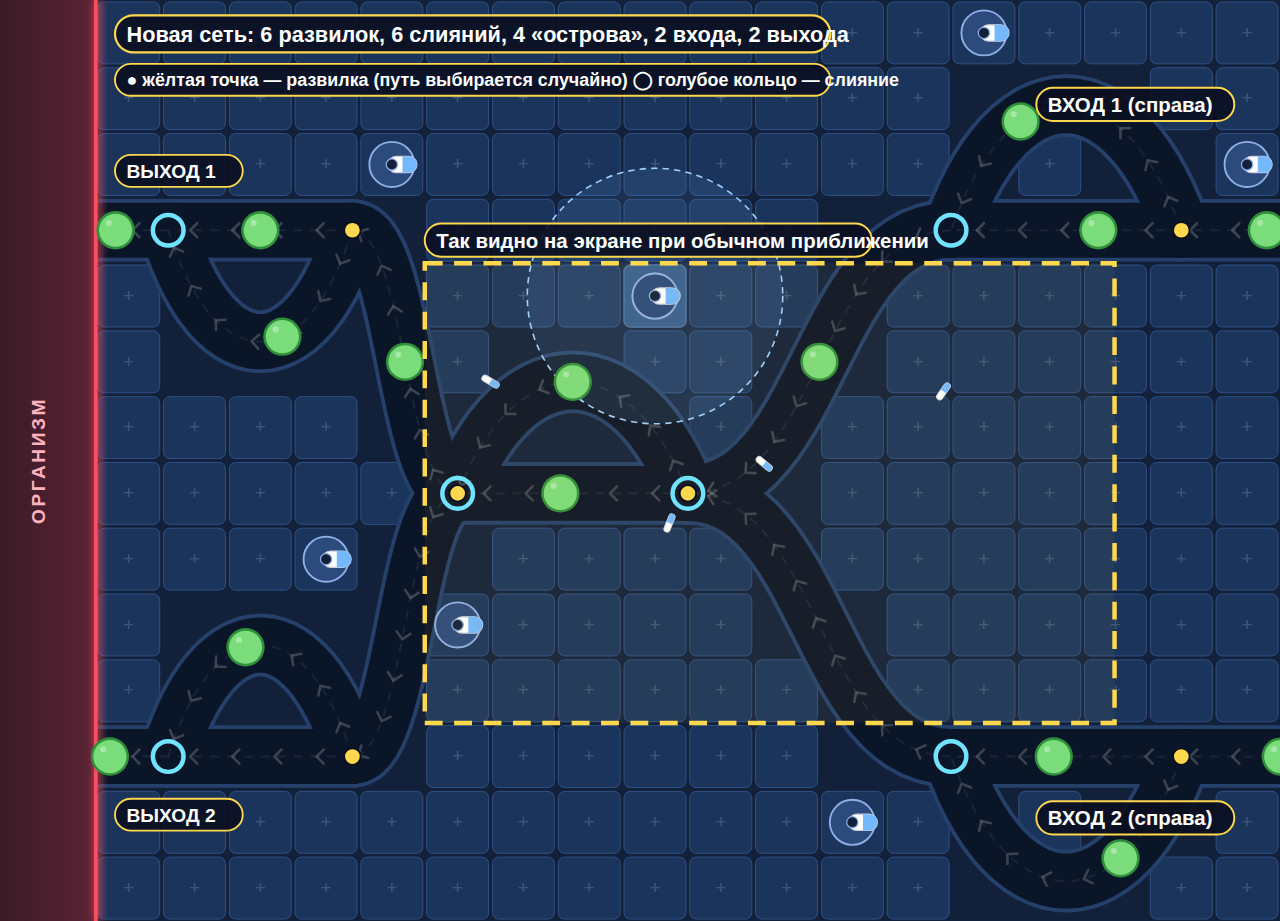
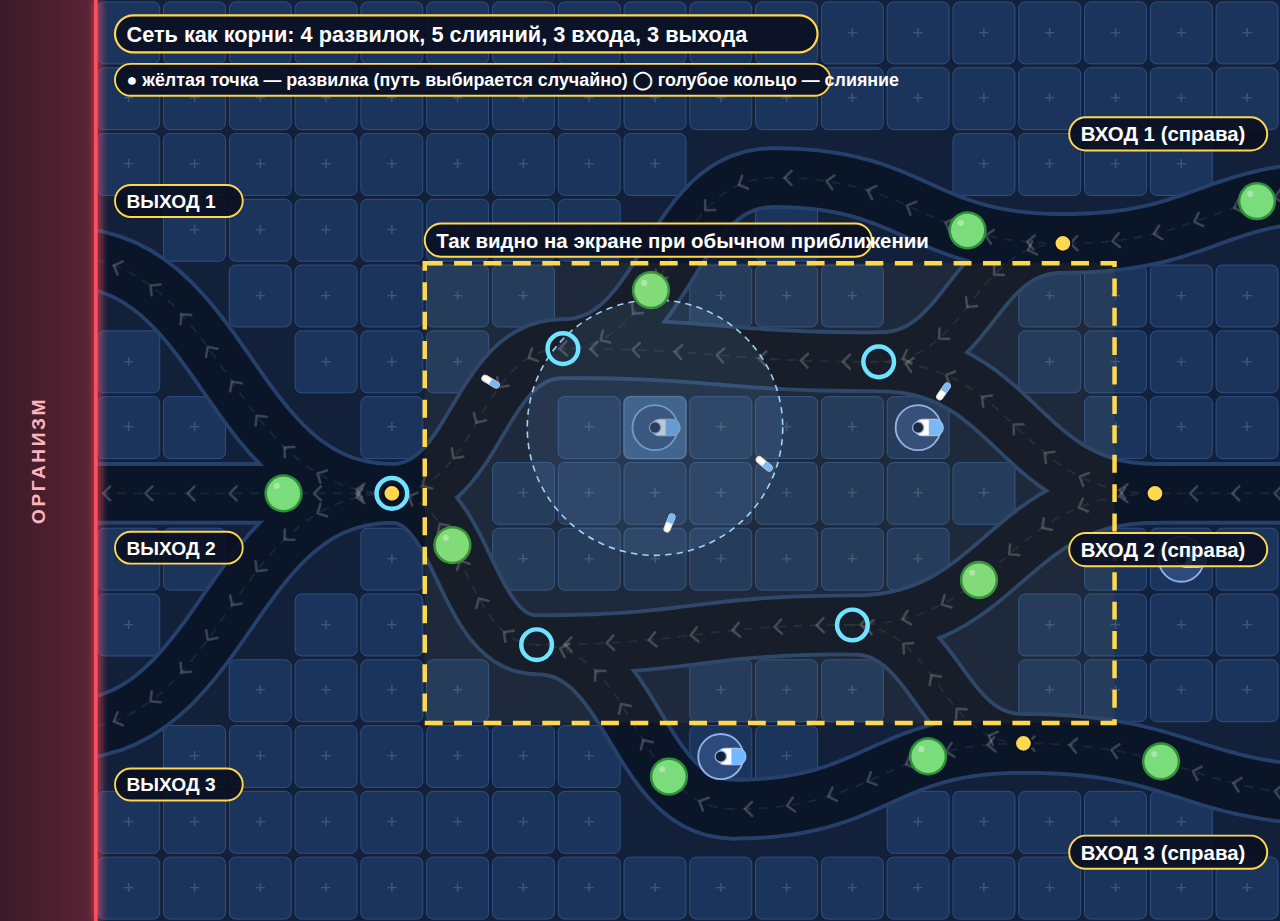
Башни ставятся при любом приближении; макет сети дорожек «корневая система»
- по указанию владельца убрано ограничение на постановку башен при отдалении: параметр camera.placeMinZoom, проверка в GameScene
  и подсказка hintZoomIn удалены; документы обновлены (риск промаха пальцем при сильном отдалении принят);
- макет сети дорожек этапа 2 переделан (docs/mockups/stage-2-network.html, qa/screenshots/td-2-mockup/): по замечанию владельца
  сеть как корни — 3 входа, 3 выхода, 4 развилки, 5 слияний, плавные кривые, неправильная форма; прежние варианты отвергнуты.
Проверки qa/ под снятое ограничение обновляются отдельным шагом (агент). Игровая логика этапа 2 не начата.

Claude-Session: https://claude.ai/code/session_01HDHRTsyNWtREdGjwqjqgc6

diff --git a/docs/mockups/stage-2-network.html b/docs/mockups/stage-2-network.html
@@ -45,21 +45,20 @@ const CAM = { x: 665, y: 412, zoom: 1 };
 // Ребро: ['из', 'в'] — прямая или плавная S-кривая (если ряды разные); ['из', 'в', dy] — дуга в сторону на dy рядов («остров» между дугой и прямой).
 // Развилка — узел, из которого выходит несколько рёбер (путь выбирается случайно); слияние — узел, в который входит несколько.
 const NODES = {
-  E1: [18.6, 3], E2: [18.6, 11],
-  F1: [16, 3], J1: [12.5, 3],          // остров на верхнем входе
-  F2: [16, 11], J2: [12.5, 11],        // остров на нижнем входе
-  M: [8.5, 7], N: [5, 7],              // слияние двух входов и остров на стволе
-  U: [3.4, 3], V: [0.6, 3],            // остров перед верхним выходом
-  L: [3.4, 11], W: [0.6, 11],          // остров перед нижним выходом
-  X1: [-1, 3], X2: [-1, 11],
+  T1: [18.6, 2.4], T2: [18.6, 7.0], T3: [18.6, 11.6],     // три «кончика» корня справа — входы
+  K1: [14.2, 3.2], K2: [15.6, 7.0], K3: [13.6, 10.8],
+  Mu: [11.4, 5.0], Ml: [11.0, 9.0],
+  Ru: [9.8, 2.2], Rl: [9.2, 11.8],
+  Nu: [6.6, 4.8], Nl: [6.2, 9.3],
+  Z: [4.0, 7.0],                                            // «ствол» у организма
+  X1: [-1, 3.4], X2: [-1, 7.0], X3: [-1, 10.6],           // три корешка к организму — выходы
 };
 const EDGES = [
-  ['E1', 'F1'], ['F1', 'J1'], ['F1', 'J1', -1.9], ['J1', 'M'],
-  ['E2', 'F2'], ['F2', 'J2'], ['F2', 'J2', 1.9], ['J2', 'M'],
-  ['M', 'N'], ['M', 'N', -1.7],
-  ['N', 'U'], ['N', 'L'],
-  ['U', 'V'], ['U', 'V', 1.7], ['V', 'X1'],
-  ['L', 'W'], ['L', 'W', -1.7], ['W', 'X2'],
+  ['T1', 'K1'], ['T2', 'K2'], ['T3', 'K3'],
+  ['K1', 'Mu'], ['K1', 'Ru'], ['K2', 'Mu'], ['K2', 'Ml'], ['K3', 'Ml'], ['K3', 'Rl'],
+  ['Mu', 'Nu'], ['Ru', 'Nu'], ['Ml', 'Nl'], ['Rl', 'Nl'],
+  ['Nu', 'Z'], ['Nl', 'Z'],
+  ['Z', 'X1'], ['Z', 'X2'], ['Z', 'X3'],
 ];
 const out = {}, inn = {};
 for (const [a, b] of EDGES) { (out[a] = out[a] || []).push(b); (inn[b] = inn[b] || []).push(a); }
@@ -108,9 +107,7 @@ for (let c = 0; c < L.cols; c++) for (let r = 0; r < L.rows; r++) if (!pathTiles
 NET.towers = free.filter(([c, r]) => (c * 5 + r * 3) % 13 === 0).slice(0, 12);
 NET.ghost = free.filter(([c, r]) => c >= 8 && c <= 11 && r >= 4 && r <= 6).sort((p, q) => tileDist[key(...q)] - tileDist[key(...p)])[0] || free[0];
 // бактерии: точки на рёбрах (доля пути ребра)
-[[0, .5], [1, .35], [2, .7], [3, .5], [4, .4], [5, .6], [6, .3], [8, .6], [9, .5], [10, .5], [12, .5], [13, .4], [14, .5], [16, .6], [17, .6]].forEach(([e, f]) => {
-  const pts = EDGE_PTS[e]; NET.bacteria.push(pts[Math.floor(f * (pts.length - 1))]);
-});
+EDGE_PTS.forEach((pts, i) => { if (i % 2 === 0 || i === 4) NET.bacteria.push(pts[Math.floor((0.3 + 0.17 * (i % 4)) * (pts.length - 1))]); });
 const towerSet = new Set(NET.towers.map(([c, r]) => key(c, r)));
 const ghostKey = key(...NET.ghost);
 
@@ -229,7 +226,7 @@ const root = document.getElementById('root');
 if (view === 'overview') {
   const k = 1280 / L.worldW, H = Math.round(L.worldH * k);
   const fw = L.viewW / CAM.zoom, fh = L.screenH / CAM.zoom;
-  const [e1x, e1y] = tc(L.cols - 1, 2), [e2x, e2y] = tc(L.cols - 1, 11);
+  
   const dots = [];
   for (const name of Object.keys(NODES)) {
     const [cx, cy] = tc(...NODES[name]), isFork = (out[name] || []).length > 1, isMerge = (inn[name] || []).length > 1;
@@ -237,16 +234,15 @@ if (view === 'overview') {
     if (isFork) dots.push(`<circle cx="${cx}" cy="${cy}" r="13" fill="#ffd84d" stroke="#0b1020" stroke-width="3"/>`);
   }
   const nForks = Object.keys(NODES).filter(n => (out[n] || []).length > 1).length, nMerges = Object.keys(NODES).filter(n => (inn[n] || []).length > 1).length;
+  const ent = ['T1', 'T2', 'T3'].map((n, i) => tag(L.worldW - 330, tc(...NODES[n])[1] + (i === 0 ? -115 : 62), '', `ВХОД ${i + 1} (справа)`, 310, null, 32, 52));
+  const ext = ['X1', 'X2', 'X3'].map((n, i) => tag(180, tc(...NODES[n])[1] + (i === 0 ? -112 : 60), '', `ВЫХОД ${i + 1}`, 200, null, 30, 50));
   const over = [
     `<rect x="${CAM.x}" y="${CAM.y}" width="${fw}" height="${fh}" fill="#ffd84d" fill-opacity=".05" stroke="#ffd84d" stroke-width="7" stroke-dasharray="28 18"/>`,
     ...dots,
     tag(CAM.x, CAM.y - 62, '', 'Так видно на экране при обычном приближении', 700, null, 32, 52),
-    tag(180, 24, '', `Новая сеть: ${nForks} развилок, ${nMerges} слияний, 4 «острова», 2 входа, 2 выхода`, 1120, null, 34, 58),
+    tag(180, 24, '', `Сеть как корни: ${nForks} развилок, ${nMerges} слияний, 3 входа, 3 выхода`, 1100, null, 34, 58),
     tag(180, 100, '', '● жёлтая точка — развилка (путь выбирается случайно)   ◯ голубое кольцо — слияние', 1120, null, 28, 50),
-    tag(e1x - 330, e1y - 120, '', 'ВХОД 1 (справа)', 310, null, 32, 52),
-    tag(e2x - 330, e2y + 70, '', 'ВХОД 2 (справа)', 310, null, 32, 52),
-    tag(180, tc(0, 3)[1] - 118, '', 'ВЫХОД 1', 200, null, 30, 50),
-    tag(180, tc(0, 11)[1] + 66, '', 'ВЫХОД 2', 200, null, 30, 50),
+    ...ent, ...ext,
   ];
   root.innerHTML = `<svg xmlns="http://www.w3.org/2000/svg" width="1280" height="${H}" viewBox="0 0 ${L.worldW} ${L.worldH}">${worldSvg()}${over.join('')}</svg>`;
 } else {

diff --git a/src/config.ts b/src/config.ts
@@ -58,9 +58,6 @@ export const CONFIG = {
     /** Чувствительность колеса мыши: во сколько раз меняется масштаб за один «щелчок» (~100 единиц колеса) —
      *  это e в степени этого числа × 100. 0.0015 → примерно ×1,16 за щелчок. */
     wheelSpeed: 0.0015,
-    /** Башни можно ставить, только если приближение не меньше этого числа: при сильном отдалении клетка
-     *  мельче пальца. 0.8 → клетка на телефоне ≈45 px. 0 — ставить можно при любом масштабе. */
-    placeMinZoom: 0.8,
     /** Касание считается тапом (а не началом сдвига карты), если палец сместился не больше, пикселей экрана игры.
      *  22 на телефоне 844×390 ≈ 12 px на самом стекле: обычное дрожание пальца при тапе (5–10 px) — ещё тап. */
     tapMaxMovePx: 22,

diff --git a/src/i18n.ts b/src/i18n.ts
@@ -19,7 +19,6 @@ const ru = {
   towerCapsule: 'Капсула',
   locked: 'закрыто',
   hintPlace: 'Выберите башню справа и тапните по свободной клетке',
-  hintZoomIn: 'Приблизьте карту, чтобы ставить башни',
   hintNoCoins: 'Не хватает монет',
   hintCantBuild: 'Здесь нельзя ставить башню',
   victory: 'Победа!',
@@ -45,7 +44,6 @@ const en: Record<TextKey, string> = {
   towerCapsule: 'Capsule',
   locked: 'locked',
   hintPlace: 'Pick a tower on the right, then tap an empty cell',
-  hintZoomIn: 'Zoom in to place towers',
   hintNoCoins: 'Not enough coins',
   hintCantBuild: "You can't build here",
   victory: 'Victory!',

diff --git a/src/scenes/GameScene.ts b/src/scenes/GameScene.ts
@@ -312,10 +312,6 @@ export class GameScene extends Phaser.Scene {
   private tryPlace(id: TowerId, col: number, row: number): void {
     const cfg = CONFIG.towers[id];
     const key = cellKey(col, row);
-    if (this.rig.zoom < CONFIG.camera.placeMinZoom) {
-      this.deny(t('hintZoomIn'));
-      return;
-    }
     if (PATH_TILES.has(key) || this.occupied.has(key)) {
       this.deny(t('hintCantBuild'));
       return;

diff --git a/docs/td-rules.md b/docs/td-rules.md
@@ -19,8 +19,8 @@
 - **[допущение]** Правая панель (волна, монеты, жизни, кнопки башен) всегда на экране и не двигается с картой. **Жизни (сердца)
   переехали в панель**, потому что организм и красная линия при сдвиге уходят за край экрана. Подсказка у края экрана
   «◀ Организм» — предложение агента. Карту целиком видно при отдалении (макет `map-overview.png`).
-- **[допущение]** На телефоне (844×390) клетка при обычном приближении ≈56 px; при отдалении она мельче пальца (44 px), поэтому
-  башни, вероятно, можно ставить только при приближении не меньше ≈0,8 — не решено.
+- **[владелец] Башни можно ставить при любом приближении** (ограничения «только при приближении ≥ 0,8» больше нет). Риск: при сильном
+  отдалении клетка на телефоне мельче пальца (44 px): при минимальном приближении ≈27 px — легко промахнуться. Решение владельца.
 - Клетка не меньше ≈ 100 px: на телефоне в горизонтальном положении (например, 844×390) поле уменьшается примерно вдвое,
   и клетку меньше 50 px пальцем не выбрать.
 - По вертикали места мало (720 px), поэтому панель выбора башен, счёт, монеты и жизни, скорее всего, встанут сбоку или
@@ -46,8 +46,10 @@
 ## Бактерии
 - **[владелец]** Остаются все пять типов, подогнанные под дорожки. Форма, цвет и HP — как в старой игре. Ответы владельца для этапа 2:
   - **Развилки:** «больше развилок и слияний на маршруте; выбор пути — в случайном порядке». Каждая бактерия на каждой развилке
-    выбирает выход случайно (поровну), независимо от других. Сеть дорожек v2 (макет `docs/mockups/stage-2-network.html`): 6 развилок,
-    6 слияний, 4 «острова» (дуга и прямая расходятся и снова сходятся), 2 входа, 2 выхода; дорожки — плавные кривые.
+    выбирает выход случайно (поровну), независимо от других. Сеть дорожек v3, «корневая система» (макет `docs/mockups/stage-2-network.html`; владелец: «разветвляться
+    и соединяться обратно, плавно и логично визуально»): 3 входа справа («кончики корня»), которые сходятся в каналы, длинные петли-острова
+    между ветвями, «ствол» у организма и 3 выхода («корешки»); 4 развилки, 5 слияний; дорожки — плавные кривые, форма неправильная,
+    без зеркальной симметрии. (Варианты «сетка под прямыми углами» и «одинаковые острова-линзы» отвергнуты.)
   - **Палочка (синяя, 2 HP): рывки.** Обычно идёт немного быстрее кокка, а раз в несколько секунд делает рывок: на 1 секунду
     ускоряется в 2,5 раза. (**[допущение]** числа: скорость 1,0 от базовой, рывок каждые 3 с, ×2,5 на 1 с.)
   - **Делящаяся (жёлтая, 2 HP): только при гибели.** Уничтожена — на этом же месте появляются два кокка, один чуть впереди другого
@@ -79,9 +81,9 @@
    Ранние требования владельца к дереву (3 ветки, 12–15 улучшений) — в `docs/decisions.md`: теперь это нижняя граница, а не потолок.
 
 ## Не решено (не додумывать, спрашивать)
-- Камера — в этапе 1 приняты значения **по умолчанию** (владелец не ответил; меняются в `src/config.ts`): приближение 0,54–1,5, башни ставятся
-  только при приближении ≥ 0,8, камера при старте у слияния дорожек, о бактерии у организма за краем экрана предупреждает мигающая
-  подсказка «◀ Организм» и красная вспышка экрана. Подтвердить или поменять — за владельцем.
+- Камера — в этапе 1 приняты значения **по умолчанию** (меняются в `src/config.ts`): приближение 0,54–1,5, камера при старте у слияния
+  дорожек, о бактерии у организма за краем экрана предупреждает мигающая подсказка «◀ Организм» и красная вспышка экрана.
+  Подтвердить или поменять — за владельцем.
 - Как считать «вперёд/назад» у башен и точный набор способов стрельбы (этап 3).
 - **Телефон в вертикальном положении:** горизонтальная игра там мелкая; сделан экран «Поверните телефон горизонтально» и пауза
   игры, пока телефон вертикально. Требования Яндекс Игр к ориентации не проверены (включить в чек-лист этапа 9).

diff --git a/docs/decisions.md b/docs/decisions.md
@@ -28,8 +28,9 @@
   «монеты»/«антитела», 3 жизни, 10 уровней по 10–15 волн, «вредят башням» — спора глушит башню) — помечены в `docs/td-rules.md`.
 
 ### Этап 2: правила бактерий (ответы владельца) и новая сеть дорожек
-- **Развилки:** «больше развилок и слияний на маршруте; выбор — в случайном порядке». Макет сети v2 — `docs/mockups/stage-2-network.html`
-  (картинки — `qa/screenshots/td-2-mockup/`): 6 развилок, 6 слияний, 4 «острова», плавные кривые. **Ждёт «ок» владельца.**
+- **Развилки:** «больше развилок и слияний на маршруте; выбор — в случайном порядке». Макет сети v3 «корневая система» — `docs/mockups/stage-2-network.html`
+  (картинки — `qa/screenshots/td-2-mockup/`): 3 входа, 3 выхода, 4 развилки, 5 слияний, длинные петли, плавные кривые (владелец отверг
+  сетку под прямыми углами и симметричные «острова»: «как корневая система, плавнее, логичнее»). **Ждёт «ок» владельца.**
 - **Палочка — рывки** (раз в несколько секунд ускоряется в 2,5 раза на 1 с). **Делящаяся — только при гибели** (два кокка на месте).
   **Вредит башням только спора** (глушит на 3 с). Подробности и числа — `docs/td-rules.md`.
 
@@ -75,13 +76,11 @@
 - PR — только по просьбе владельца. Автопубликация на GitHub Pages — только с `main`.
 
 ## Открытые вопросы
-1. **Камера и раскладка.** Макет версии 3 владелец утвердил («макет утверждаю»). На четыре вопроса по камере ответа не было —
-   в этапе 1 приняты значения по умолчанию (всё меняется числом в `src/config.ts`; владелец может поправить): башни ставятся только
-   при приближении ≥ 0,8 (`camera.placeMinZoom`), иначе подсказка «Приблизьте карту…»; приближение в пределах 0,54–1,5 (`zoomMin`,
-   `zoomMax`); камера при старте — у слияния дорожек (`LEVEL.startCenter`); размер карты 18×14 — как утверждено на макете; о бактерии
-   у организма за краем экрана предупреждают мигающая подсказка «◀ Организм» и красная вспышка на всём экране.
-   Тап отличается от сдвига: палец сместился ≤ 22 px экрана игры и короче 500 мс.
-2. Способы стрельбы башен и как считать «вперёд/назад» — этап 3. Сеть дорожек v2 — на согласовании (макет показан).
+1. **Камера и раскладка.** Макет версии 3 владелец утвердил. В этапе 1 по умолчанию приняты (меняются числом в `src/config.ts`):
+   приближение 0,54–1,5, камера при старте у слияния дорожек, мигающая подсказка «◀ Организм» и красная вспышка экрана при потере
+   жизни. **Башни можно ставить при любом приближении** (владелец убрал прежнее ограничение «только при приближении ≥ 0,8»; риск
+   промахов пальцем при сильном отдалении принят). Тап отличается от сдвига: палец сместился ≤ 22 px экрана игры и короче 500 мс.
+2. Способы стрельбы башен и как считать «вперёд/назад» — этап 3. Сеть дорожек v3 («корни») — на согласовании (макет показан).
 3. **Телефон в вертикальном положении:** сделан экран «Поверните телефон горизонтально» и пауза игры (этап 1). Требования Яндекс
    Игр к ориентации не проверены (чек-лист этапа 9).
 4. Не проверено на настоящем телефоне: поворот, мультитач, плавность, звук, iPhone (Safari) — в автотестах только Chromium.

diff --git a/docs/td-plan.md b/docs/td-plan.md
@@ -9,7 +9,7 @@
 |---|---|---|---|
 | 0 | **Подготовка, без кода игры.** Сохранить старую игру (коммит `3b913a3`), записать правила и план, переписать инструкцию `game-designer`, обновить `CLAUDE.md`, `decisions.md`. | Файлы с правилами и планом — сверить, что всё понято верно. | ✅ |
 | 1 | **Поле и первая башня.** Сначала **макет раскладки** (картинка) — ждём «ок». Потом: горизонтальное поле 1280×720, красная линия слева, кривые дорожки (два входа → слияние → разветвление → два выхода) и клетки, **большая карта 18×14 с камерой: сдвиг пальцем, приближение щипком и колесом мыши**, панель (волна, монеты, жизни, башни), монеты, одна башня, кокки идут справа налево и отнимают жизни. Старую сцену и бота убираем; проверки `qa/smoke.mjs` переписываем под 16:9. | Играбельный «один уровень, одна башня» на компьютере и телефоне (в горизонтальном положении). Здесь же нужна проверка на настоящем телефоне. | ✅ Готово: код и автопроверки (327 из 327, независимый прогон `qa-tester`). Макет версии 3 утверждён. Ждём отзыва владельца и проверки на настоящем телефоне (щипок, тапы по клеткам, звук, iPhone). Баланс не замерен: по ручному замеру слишком лёгкий (хватает 2 башен) — настроит бот на этапе 3 |
-| 2 | **Волны и все пять бактерий.** Новая сеть дорожек с 6 развилками и 6 слияниями (выбор пути случайный, макет `docs/mockups/stage-2-network.html` — ждём «ок»). Палочка — рывки, делящаяся — два кокка при гибели, спора глушит башню на 3 с, бронированная. Выход типов по волнам: 1 / 3 / 5 / 7 / 9, первый раз — один со сигналом. Победа и проигрыш уровня уже есть (этап 1). | Целый уровень со всеми пятью типами. | 🟡 Правила бактерий утверждены владельцем; сеть дорожек на согласовании, код не начат |
+| 2 | **Волны и все пять бактерий.** Новая сеть дорожек «корневая система» (3 входа, 3 выхода, 4 развилки, 5 слияний; выбор пути случайный, макет `docs/mockups/stage-2-network.html` — ждём «ок»). Палочка — рывки, делящаяся — два кокка при гибели, спора глушит башню на 3 с, бронированная. Выход типов по волнам: 1 / 3 / 5 / 7 / 9, первый раз — один со сигналом. Победа и проигрыш уровня уже есть (этап 1). | Целый уровень со всеми пятью типами. | 🟡 Правила бактерий утверждены владельцем; сеть дорожек на согласовании, код не начат |
 | 3 | **Башни таблицей + первые четыре** (обычная, замедляющая, взрывная, пробивающая) с разными способами стрельбы. Новая башня = новая строка в таблице. Переписанный бот замеряет баланс (запускает `game-designer` через субагента). | Выбор башен, разные стратегии. | ⬜ |
 | 4 | **Улучшения внутри партии.** Ветки по несколько уровней у каждой башни, данные отдельным файлом. | Тап по башне открывает панель улучшений. | ⬜ |
 | 5 | **Меню и уровни** (бывший этап 2). Стартовый экран, карта уровней, 10 уровней, звёзды, экраны победы и проигрыша, сохранение прогресса. | Полный игровой цикл. | ⬜ |

diff --git a/CLAUDE.md b/CLAUDE.md
@@ -27,15 +27,15 @@
 - Баланс — только `src/config.ts`; тексты — только `src/i18n.ts` на RU и EN.
 
 ## Открытое (подробности — `docs/decisions.md`)
-1. Камера: границы приближения; можно ли ставить башни при отдалении (сейчас нет: `camera.placeMinZoom` 0.8); как предупреждать
-о бактерии у организма за краем экрана (сейчас мигающая подсказка «◀ Организм» и красная вспышка экрана); где камера при старте.
-2. Сеть дорожек v2 — на согласовании (этап 2).
+1. Камера: границы приближения; как предупреждать о бактерии у организма за краем экрана (сейчас мигающая подсказка «◀ Организм» и красная
+вспышка экрана); где камера при старте. Башни ставятся при любом приближении (решение владельца).
+2. Сеть дорожек v3 («корневая система») — на согласовании (этап 2).
 3. Способы стрельбы башен, «вперёд/назад» (этап 3). 4. Требования Яндекса к ориентации (телефон вертикально — экран «Поверните телефон» сделан).
 5. Живые игроки и настоящий телефон. 6. Rewarded-реклама — где (этап 9).
 
 ## Следующий шаг: этап 2 («Волны и все пять бактерий»)
 Правила бактерий утверждены владельцем (`docs/td-rules.md`): случайные развилки (больше развилок и слияний), палочка — рывки,
-делящаяся — два кокка при гибели, вредит башням только спора. **Новая сеть дорожек показана макетом** (`docs/mockups/stage-2-network.html`,
+делящаяся — два кокка при гибели, вредит башням только спора. **Новая сеть дорожек («корневая система», 3 входа / 3 выхода) показана макетом** (`docs/mockups/stage-2-network.html`,
 картинки — `qa/screenshots/td-2-mockup/`) — **код не писать, пока владелец не скажет «ок» на сеть.** Потом: дорожки как граф
 (узлы и рёбра — плавные кривые, выбор ребра случайный), типы бактерий по волнам, рывки/деление/глушение, проверки (субагенты),
 итоговая таблица, коммит. PR этапа 1 уже слит (игра по ссылке — после слияния обновляется с задержкой кэша до 10 минут).

diff --git a/docs/technical-notes.md b/docs/technical-notes.md
@@ -66,7 +66,7 @@
   при потере жизни — красная вспышка на ВСЁМ экране и тряска (организм может быть за краем экрана).
 - Бактерии рисует `bacteriumArt.ts` (форма, толщина оболочки и трещины зависят от типа и оставшегося HP). В этапе 1 выпускаются
   только кокки; рисунки остальных четырёх готовы.
-- Башня можно поставить, только если приближение ≥ `camera.placeMinZoom` (0.8): при сильном отдалении клетка мельче пальца.
+- Башню можно поставить при любом приближении (решение владельца); при сильном отдалении клетка на телефоне мельче пальца.
 
 ## Особенности рабочей среды (для агента)
 - Облачный контейнер ≈ 4 ядра, программный WebGL (~14 fps). Он может перезапуститься и убить фоновые задачи; долгие замеры лучше
